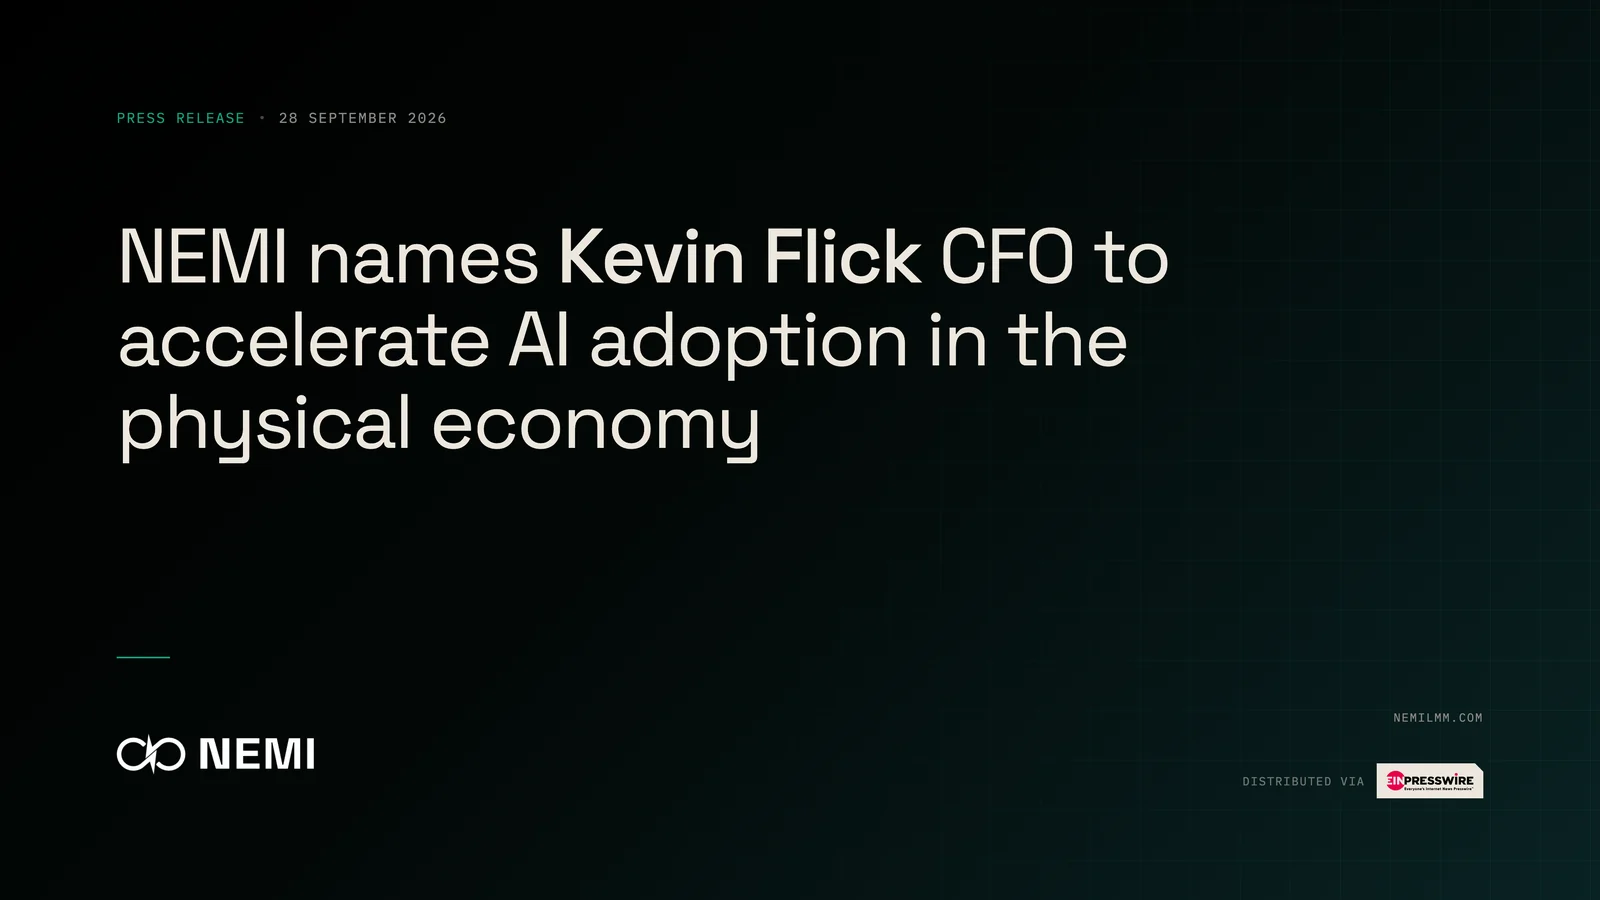
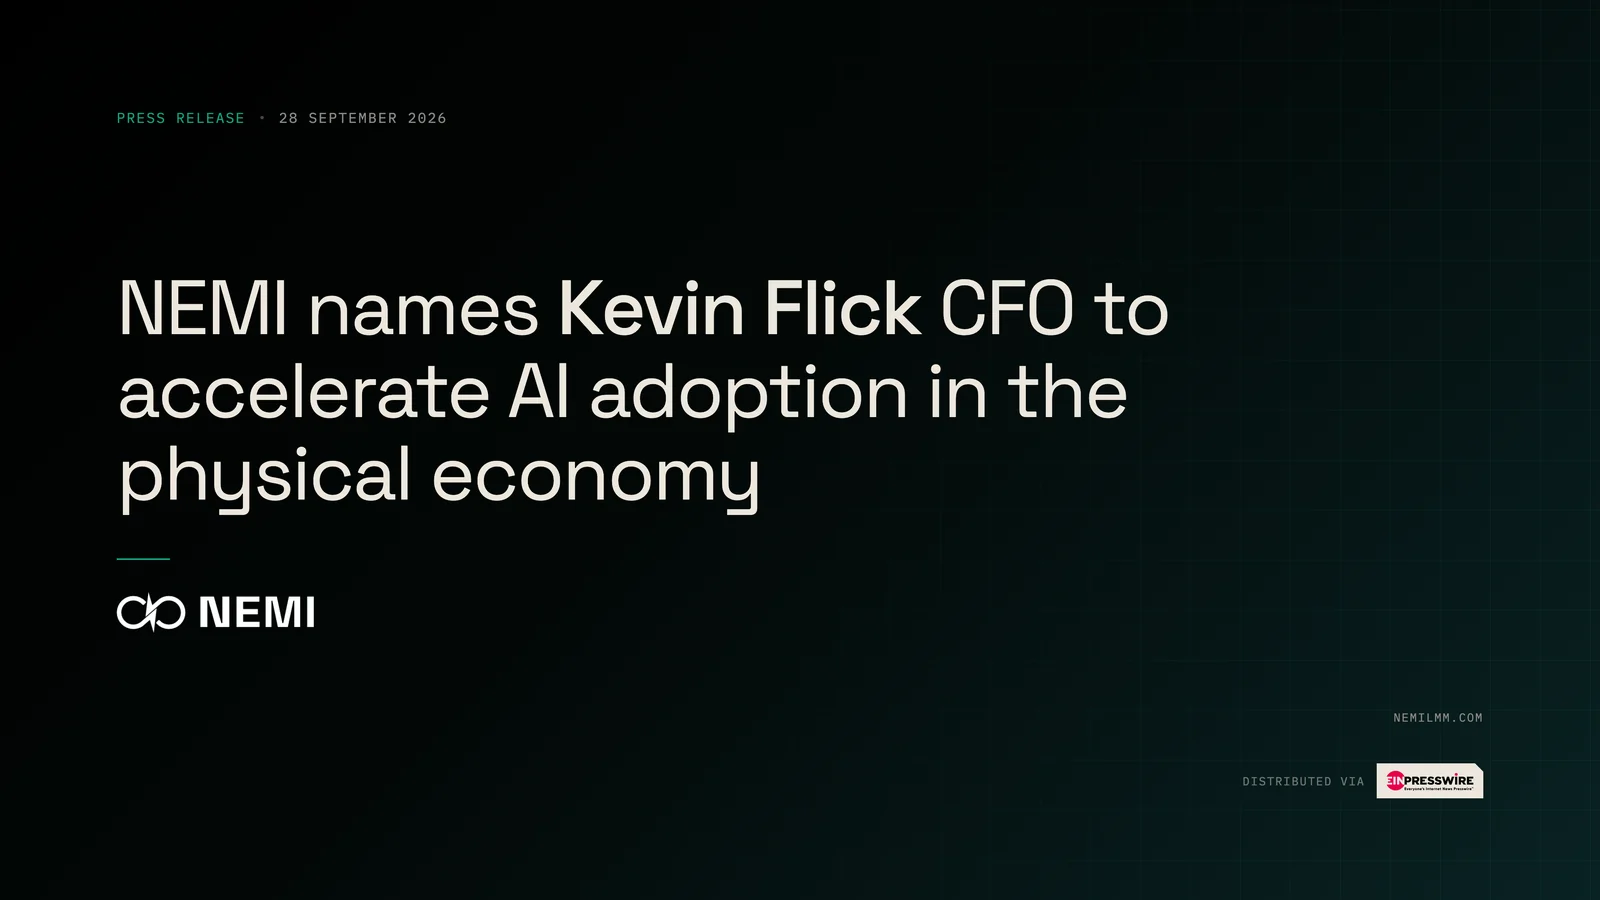
Press card: headline, rule and lockup centre as one block
Layout C pinned the lockup to the foot and left a void through the middle
of the card. It only showed at full size, which is where a press thumbnail
is actually looked at. The three now sit as one centred group.

Re-exports the Kevin Flick thumbnail and bumps its cache key.

Changed region(s): [[0.0625, 0.2489, 0.75, 0.5911], [0.0625, 0.8089, 0.2188, 0.8711], [0.0625, 0.6533, 0.2188, 0.7156]]

diff --git a/press.html b/press.html
@@ -126,7 +126,7 @@ height="0" width="0" style="display:none;visibility:hidden"></iframe></noscript>
     <div class="posts">
       <a class="post post--release" href="https://www.einpresswire.com/article/945790331/nemi-names-kevin-flick-cfo-to-accelerate-ai-adoption-in-the-physical-economy" target="_blank" rel="noopener">
         <div class="post__cover post__cover--photo">
-          <img class="post__photo" src="assets/img/press/kevin-flick-cfo-release.webp" alt="Press release card: NEMI names Kevin Flick CFO to accelerate AI adoption in the physical economy, 28 September 2026, distributed via EIN Presswire" loading="lazy">
+          <img class="post__photo" src="assets/img/press/kevin-flick-cfo-release.webp?v=2" alt="Press release card: NEMI names Kevin Flick CFO to accelerate AI adoption in the physical economy, 28 September 2026, distributed via EIN Presswire" loading="lazy">
         </div>
         <div class="post__body">
           <div class="post__meta"><time datetime="2026-09-28">28 September 2026</time> &middot; Press release &middot; EIN Presswire</div>
